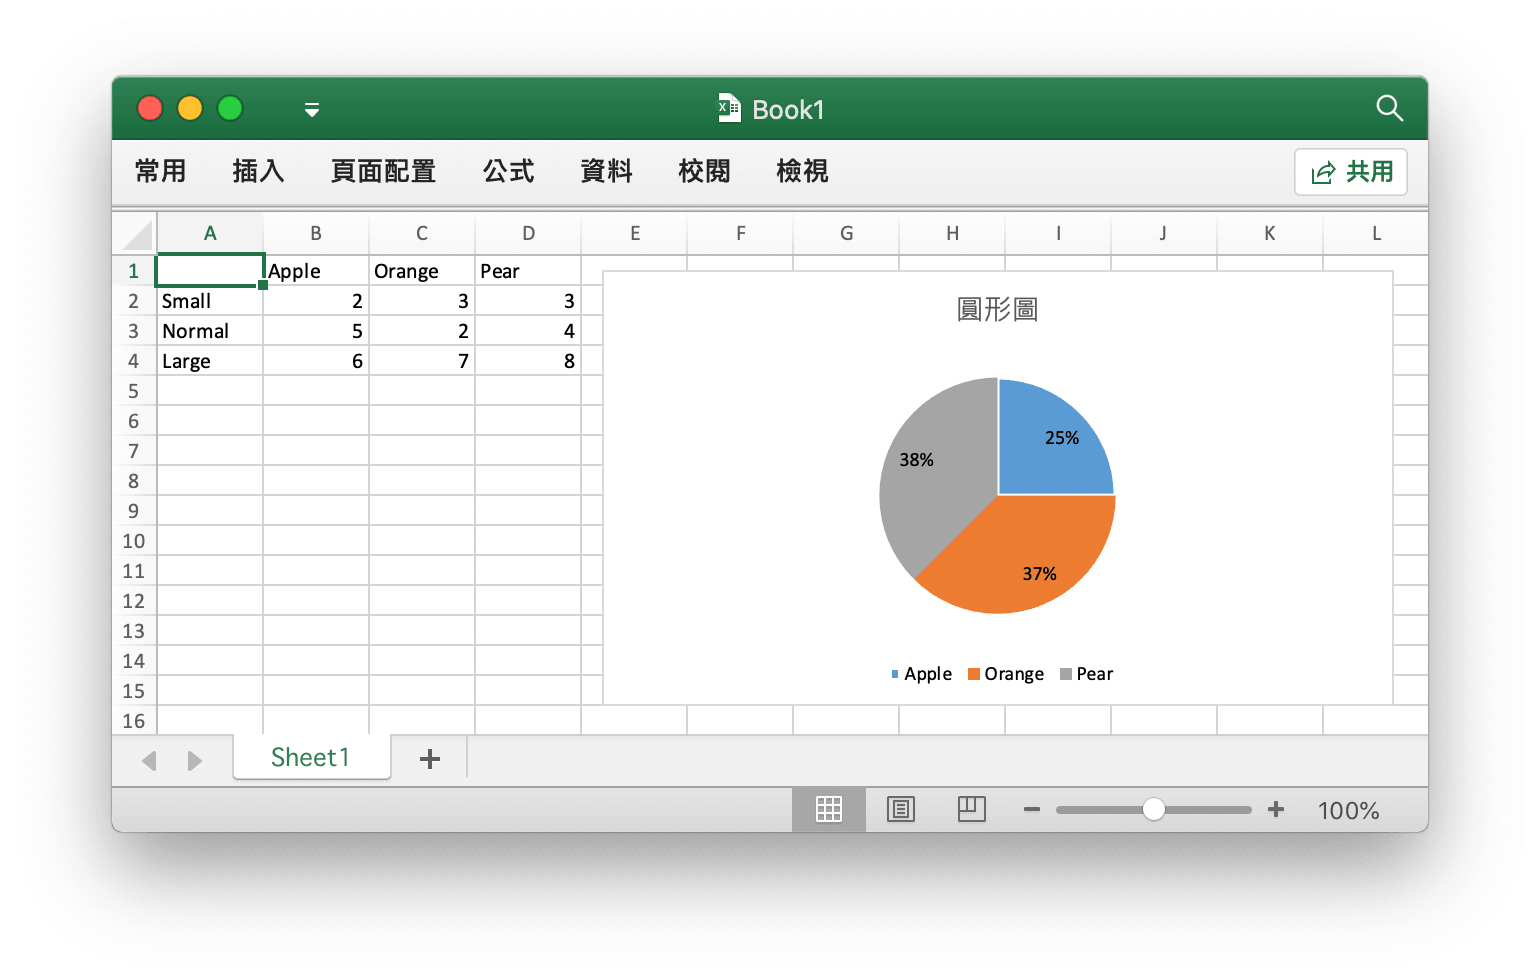
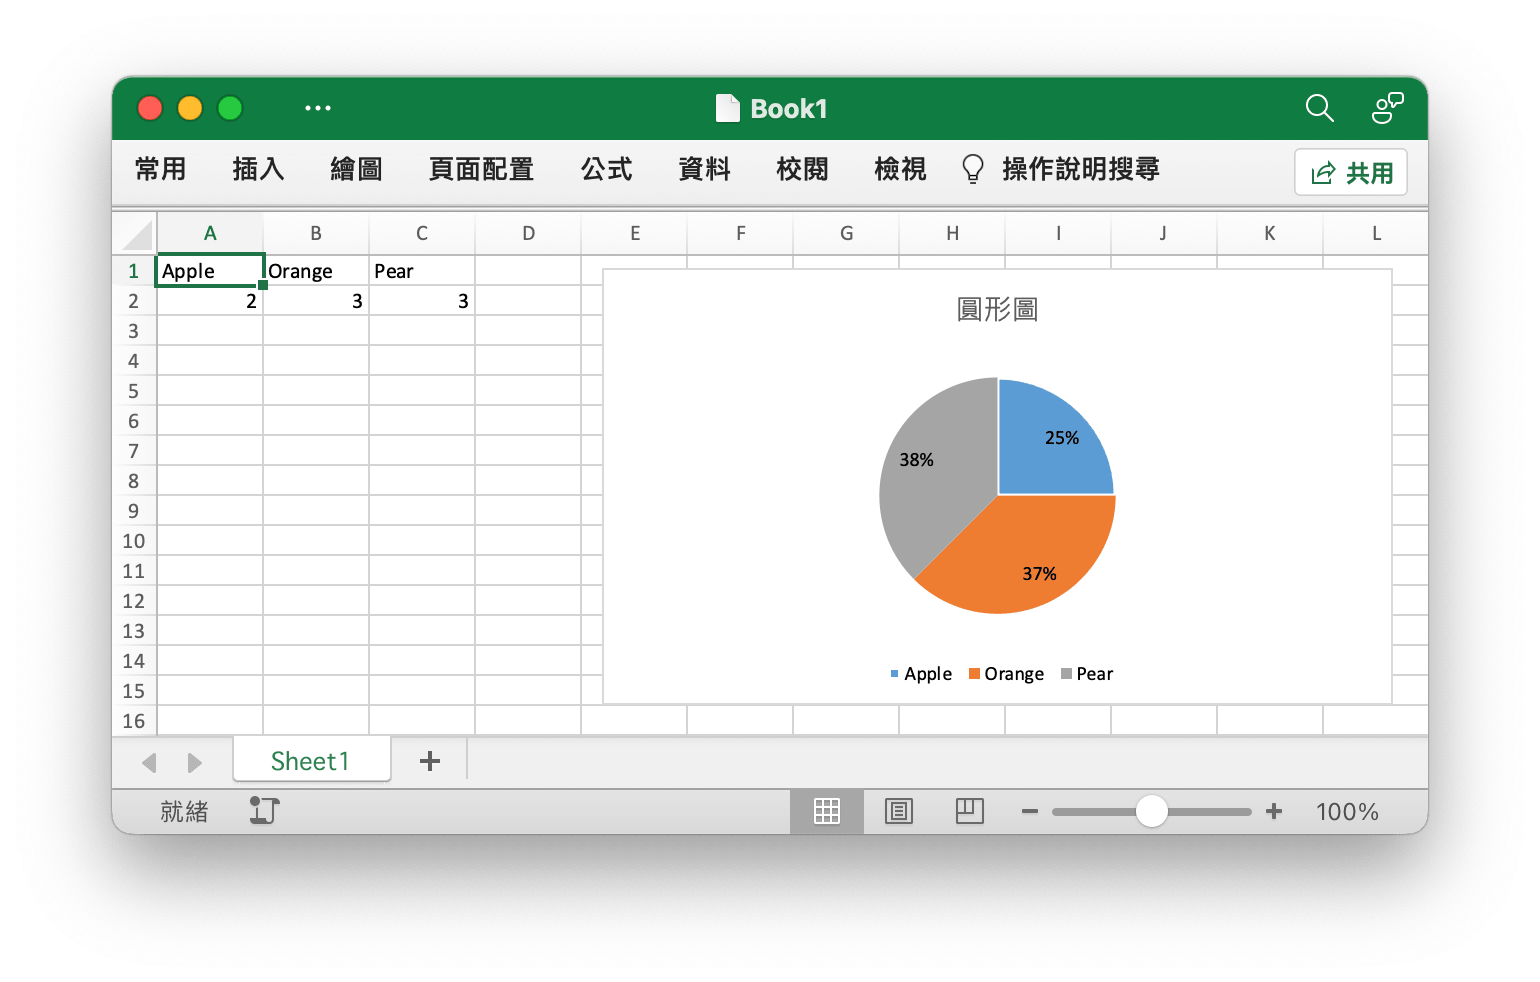
This update en and zh version docs of pie/3D pie chart
- Update hosting vendor logo

diff --git a/index.html b/index.html
@@ -365,7 +365,7 @@
 
         #footer-icon img {
             position: absolute;
-            left: -42px;
+            left: -82px;
             border-right: 8px solid #fff;
             top: -5px;
         }
@@ -377,7 +377,7 @@
 
             #footer-icon {
                 float: none;
-                padding-left: 42px;
+                padding-left: 65px;
                 width: 100px;
                 margin: 30px auto;
             }
@@ -1324,9 +1324,9 @@
             Rights Reserved. <a href="https://github.com/xuri/excelize/blob/master/LICENSE">Legal</a>.
             <div id="footer-icon">
                 <a href="https://linode.gvw92c.net/xuri" target="_blank">
-                    <img src="images/ico-linode.svg" alt="Hosting by Linode" width="39" height="46">
+                    <img src="images/ico-akamai.svg" alt="Hosting by Akamai" width="79" height="46">
                     Hosting <br>
-                    by Linode
+                    by Akamai
                 </a>
             </div>
         </div>

diff --git a/zh-tw/chart/pie3D.md b/zh-tw/chart/pie3D.md
@@ -21,10 +21,8 @@ func main() {
         }
     }()
     for idx, row := range [][]interface{}{
-        {nil, "Apple", "Orange", "Pear"},
-        {"Small", 2, 3, 3},
-        {"Normal", 5, 2, 4},
-        {"Large", 6, 7, 8},
+        {"Apple", "Orange", "Pear"},
+        {2, 3, 3},
     } {
         cell, err := excelize.CoordinatesToCellName(1, idx+1)
         if err != nil {
@@ -37,10 +35,10 @@ func main() {
         }
     }
     if err := f.AddChart("Sheet1", "E1", &excelize.Chart{
-        Type: "pie",
+        Type: "pie3D",
         Series: []excelize.ChartSeries{
             {
-                Name:       "Amount",
+                Name:       "數量",
                 Categories: "Sheet1!$A$1:$C$1",
                 Values:     "Sheet1!$A$2:$C$2",
             },
@@ -53,13 +51,8 @@ func main() {
             Name: "立體圓形圖",
         },
         PlotArea: excelize.ChartPlotArea{
-            ShowCatName:     false,
-            ShowLeaderLines: false,
-            ShowPercent:     true,
-            ShowSerName:     false,
-            ShowVal:         false,
+            ShowPercent: true,
         },
-        ShowBlanksAs: "zero",
     }); err != nil {
         fmt.Println(err)
         return

diff --git a/zh-hans/chart/pie3D.md b/zh-hans/chart/pie3D.md
@@ -2,7 +2,7 @@
 
 例如，创建如下效果的三维饼图：
 
-<p align="center"><img width="771" src="../images/3d_pie_chart.png" alt="使用 Go 语言在 Excel 文档中创建三维饼图"></p>
+<p align="center"><img width="770" src="../images/3d_pie_chart.png" alt="使用 Go 语言在 Excel 文档中创建三维饼图"></p>
 
 ```go
 package main
@@ -38,7 +38,7 @@ func main() {
         Type: "pie3D",
         Series: []excelize.ChartSeries{
             {
-                Name:       "Amount",
+                Name:       "数量",
                 Categories: "Sheet1!$A$1:$C$1",
                 Values:     "Sheet1!$A$2:$C$2",
             },
@@ -48,16 +48,11 @@ func main() {
             OffsetY: 10,
         },
         Title: excelize.ChartTitle{
-            Name: "Fruit 3D Pie Chart",
+            Name: "三维饼图",
         },
         PlotArea: excelize.ChartPlotArea{
-            ShowCatName:     false,
-            ShowLeaderLines: false,
-            ShowPercent:     true,
-            ShowSerName:     false,
-            ShowVal:         false,
+            ShowPercent: true,
         },
-        ShowBlanksAs: "zero",
     }); err != nil {
         fmt.Println(err)
         return

diff --git a/zh-hans/chart/pie.md b/zh-hans/chart/pie.md
@@ -2,7 +2,7 @@
 
 例如，创建如下效果的饼图：
 
-<p align="center"><img width="770" src="../images/pie_chart.png" alt="使用 Go 语言在 Excel 文档中创建饼图"></p>
+<p align="center"><img width="771" src="../images/pie_chart.png" alt="使用 Go 语言在 Excel 文档中创建饼图"></p>
 
 ```go
 package main
@@ -38,7 +38,7 @@ func main() {
         Type: "pie",
         Series: []excelize.ChartSeries{
             {
-                Name:       "Amount",
+                Name:       "数量",
                 Categories: "Sheet1!$A$1:$C$1",
                 Values:     "Sheet1!$A$2:$C$2",
             },
@@ -48,16 +48,11 @@ func main() {
             OffsetY: 10,
         },
         Title: excelize.ChartTitle{
-            Name: "Fruit Pie Chart",
+            Name: "三维饼图",
         },
         PlotArea: excelize.ChartPlotArea{
-            ShowCatName:     false,
-            ShowLeaderLines: false,
-            ShowPercent:     true,
-            ShowSerName:     false,
-            ShowVal:         false,
+            ShowPercent: true,
         },
-        ShowBlanksAs: "gap",
     }); err != nil {
         fmt.Println(err)
         return

diff --git a/zh-tw/chart/pie.md b/zh-tw/chart/pie.md
@@ -21,10 +21,8 @@ func main() {
         }
     }()
     for idx, row := range [][]interface{}{
-        {nil, "Apple", "Orange", "Pear"},
-        {"Small", 2, 3, 3},
-        {"Normal", 5, 2, 4},
-        {"Large", 6, 7, 8},
+        {"Apple", "Orange", "Pear"},
+        {2, 3, 3},
     } {
         cell, err := excelize.CoordinatesToCellName(1, idx+1)
         if err != nil {
@@ -40,7 +38,7 @@ func main() {
         Type: "pie",
         Series: []excelize.ChartSeries{
             {
-                Name:       "Amount",
+                Name:       "數量",
                 Categories: "Sheet1!$A$1:$C$1",
                 Values:     "Sheet1!$A$2:$C$2",
             },
@@ -53,13 +51,8 @@ func main() {
             Name: "圓形圖",
         },
         PlotArea: excelize.ChartPlotArea{
-            ShowCatName:     false,
-            ShowLeaderLines: false,
-            ShowPercent:     true,
-            ShowSerName:     false,
-            ShowVal:         false,
+            ShowPercent: true,
         },
-        ShowBlanksAs: "gap",
     }); err != nil {
         fmt.Println(err)
         return

diff --git a/en/chart/pie.md b/en/chart/pie.md
@@ -2,7 +2,7 @@
 
 For example, add a pie chart that like the this:
 
-<p align="center"><img width="770" src="../images/pie_chart.png" alt="create pie chart with excelize using Go"></p>
+<p align="center"><img width="771" src="../images/pie_chart.png" alt="create pie chart with excelize using Go"></p>
 
 ```go
 package main
@@ -51,13 +51,8 @@ func main() {
             Name: "Fruit Pie Chart",
         },
         PlotArea: excelize.ChartPlotArea{
-            ShowCatName:     false,
-            ShowLeaderLines: false,
-            ShowPercent:     true,
-            ShowSerName:     false,
-            ShowVal:         false,
+            ShowPercent: true,
         },
-        ShowBlanksAs: "gap",
     }); err != nil {
         fmt.Println(err)
         return
@@ -67,5 +62,4 @@ func main() {
         fmt.Println(err)
     }
 }
-
 ```

diff --git a/en/chart/pie3D.md b/en/chart/pie3D.md
@@ -51,13 +51,8 @@ func main() {
             Name: "Fruit 3D Pie Chart",
         },
         PlotArea: excelize.ChartPlotArea{
-            ShowCatName:     false,
-            ShowLeaderLines: false,
-            ShowPercent:     true,
-            ShowSerName:     false,
-            ShowVal:         false,
+            ShowPercent: true,
         },
-        ShowBlanksAs: "zero",
     }); err != nil {
         fmt.Println(err)
         return

diff --git a/zh-hans/chart/col3DConeStacked.md b/zh-hans/chart/col3DConeStacked.md
@@ -82,5 +82,4 @@ func main() {
         fmt.Println(err)
     }
 }
-
 ```
